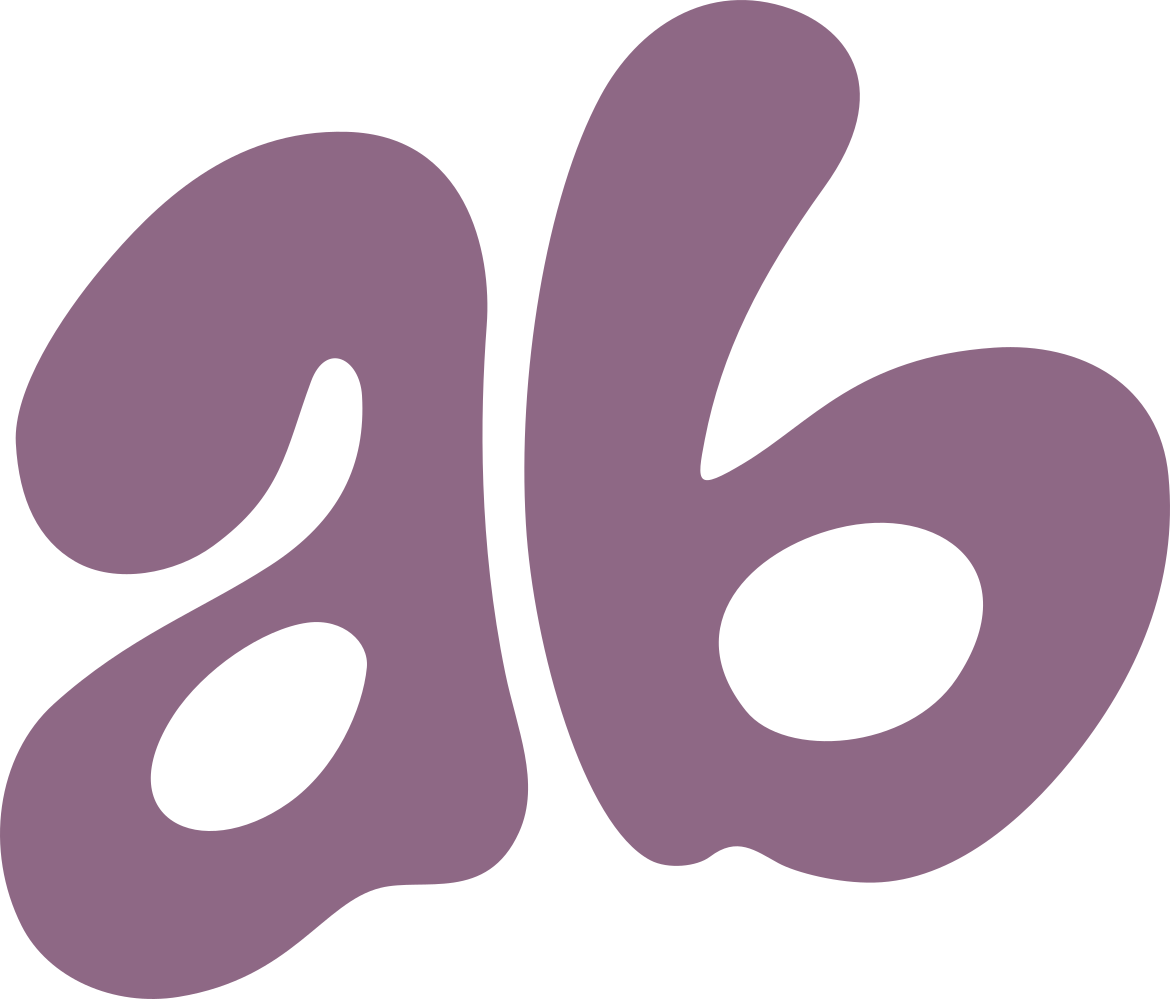
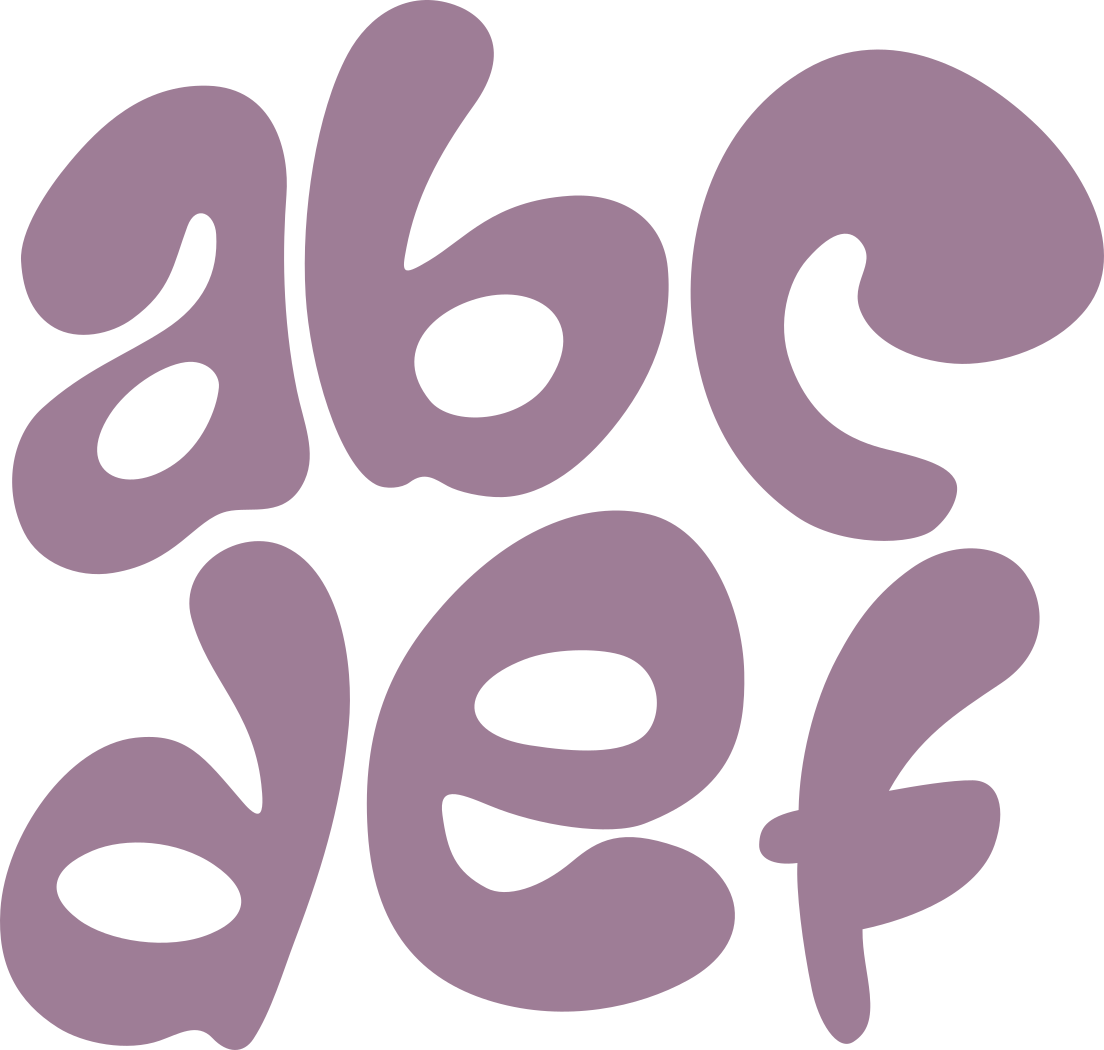
DEF

diff --git a/README.md b/README.md
@@ -1,5 +1,11 @@
 # Groovy
 
+## Objectifs
+
+- Dessiner grossièrement toutes les lettres :white_check_mark:
+- Redessiner plus fidèlement à l'original (en cours)
+- Version TTF
+
 ## Avancement
 
 ![Groovy](groovy.png "Groovy")
